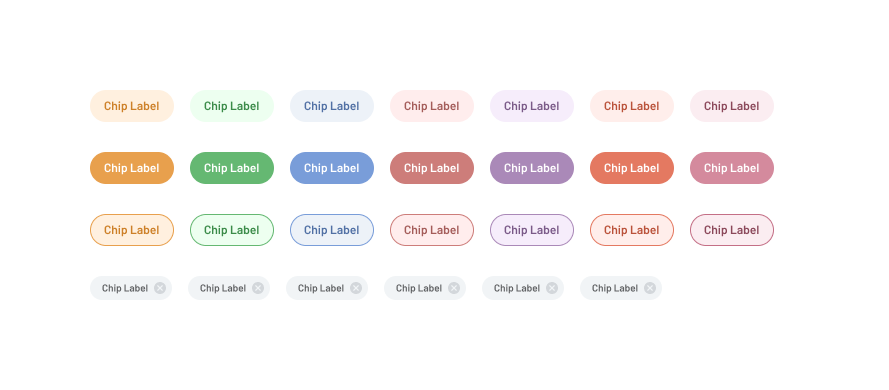
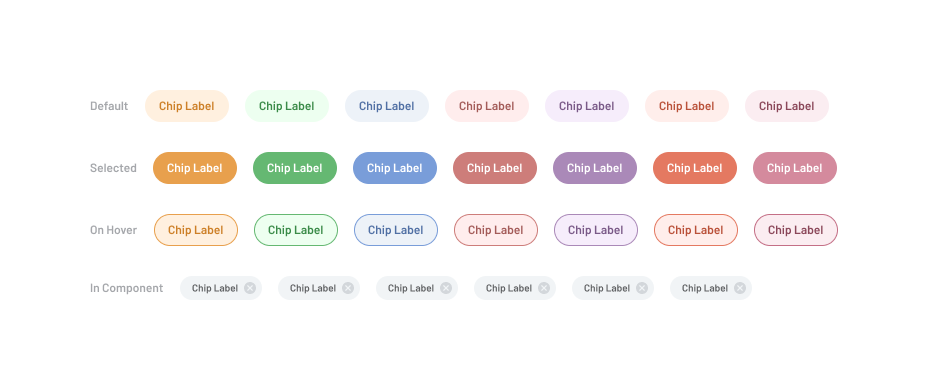
Updates copy, adds examlpes

diff --git a/Chip.md b/Chip.md
@@ -1,22 +1,22 @@
 # Chip Component Documentation
 
 ## Overview
-The Chip component is a versatile UI element used for displaying small pieces of information, such as tags, categories, or interactive elements. It supports multiple visual styles and configurations to fit various design needs.
+The Chip component is a versatile UI element used to categorize, filter, or tag content. It supports multiple visual styles and configurations to fit various design needs.
 
 ## Variants & Styles
 The Chip component has the following variations:
 
 ### **Shape Variants**
-- **Rounded:** Soft edges, suitable for modern, friendly UI.
-- **Squared:** Sharper edges, ideal for structured or data-heavy interfaces.
+- **Rounded:** Used for fitler interactions
+- **Squared:** Used for tagging content
 
 ### **Color Themes**
 - **Light Colors:** 19 predefined light colors.
 - **Dark Colors:** 19 predefined strong/dark colors.
 
-### **Border Styles**
-- **Bordered:** Has a defined border to enhance visibility.
-- **Minimal:** No background, border, or padding for a seamless look.
+### **Outlined Styles**
+- **Outlined:** Used for filter hover states
+- **Minimal:** Used for status tagging
 
 ### **Sizes**
 - **Small:** Compact and suitable for dense interfaces.
@@ -26,12 +26,37 @@ The Chip component has the following variations:
 
 ## Properties
 The Chip component supports the following properties:
-- **Left Icon:** A customizable swappable instance that can represent different icons.
-- **Right Icon:** A customizable swappable instance; defaults to a close button.
+- **Icon:** A customizable swappable instance that can represent different icons.
 - **Avatar:** An optional avatar image that is off by default.
 - **Label:** The main textual content of the Chip.
-  
-![image](img/Properties.png)
+- **Delete Icon:** A customizable swappable instance; defaults to a close button.
+
+![image](img/chips-anatomy.png)
+
+In code this would look like:
+
+``` ts
+<Chip
+    icon={<BellIcon />} 
+    label="Notifications"
+    deleteIcon={<DeleteIcon />}
+    onDelete={handleDelete}
+    size="large"
+    variant="default"
+/>
+
+<Chip
+    avatar={<Avatar alt="Leslie Knope" src="../path/to/leslie-knope.jpg" />}
+    label="Leslie Knope"
+    deleteIcon={<DeleteIcon />}
+    onDelete={handleDelete}
+    size="large"
+    variant="default"
+/>
+```
+
+### Usage Example
+![image](img/chips-example-usage.png)
 
 ## Usage Guidelines
 ### When to Use
@@ -44,23 +69,26 @@ The Chip component supports the following properties:
 - Do not use Chips for long text; keep labels concise.
 
 ### Best Practices
-- **Ensure readability:** Choose contrasting colors based on light/dark mode.
+- **Ensure readability:** Use the color variant options in the componant.
 - **Use consistent spacing:** Maintain uniform padding between Chips.
 - **Avoid overuse:** Too many Chips on a screen can cause clutter.
-- **Pair with icons when needed:** Icons enhance clarity, such as an 'X' for removable Chips.
+- **Pair with icons when needed:** Icons enhance clarity.
 
 ## Examples
-### **Tagging System** (Squared, Minimal, Small)
-For data dense use cases: 
+### **Tagging System** (Squared)
+For tagging content
 
 ![image](img/Tagging.png)
 
-### **Filter Options** (Rounded, Small, Medium, Monochrome, Bordered)
-For filter interaction use cases:
+### **Filter Options** (Rounded)
+#### For filter interactions use rounded variants in these states:
+- **For Selected states use a Strong color** 
+- **For Hover states use the Outlined variant**
+- **Use default gray for usage in components**
 
 ![image](img/Filtering.png)
 
 ### Accessibility Considerations
-- **Ensure sufficient contrast between text and background.**
+- **All 38 color variants have been checked for accessibility.**
 - **Provide focus indicators for keyboard navigation.**
 - **Use aria-labels when necessary for screen readers.**
